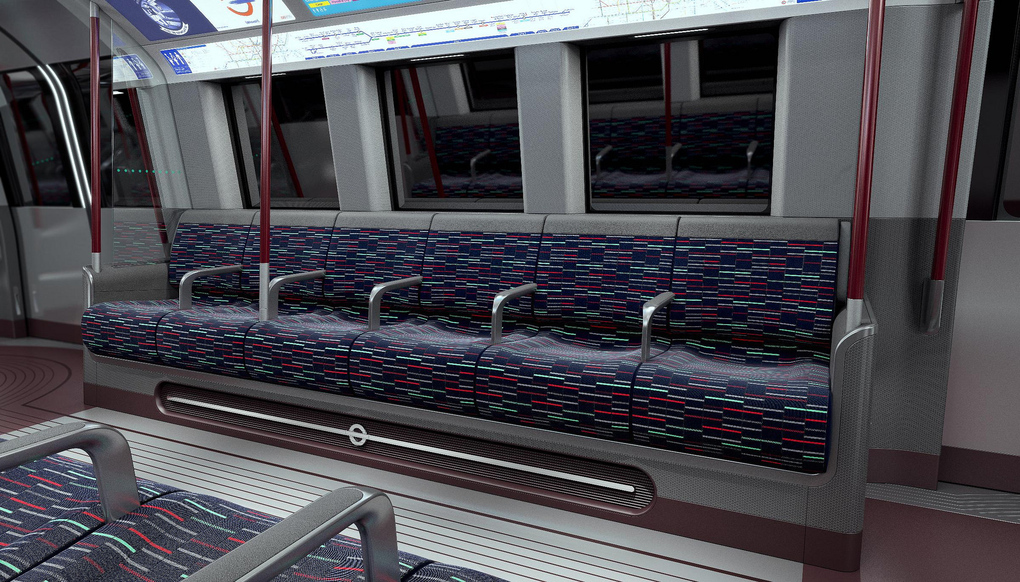
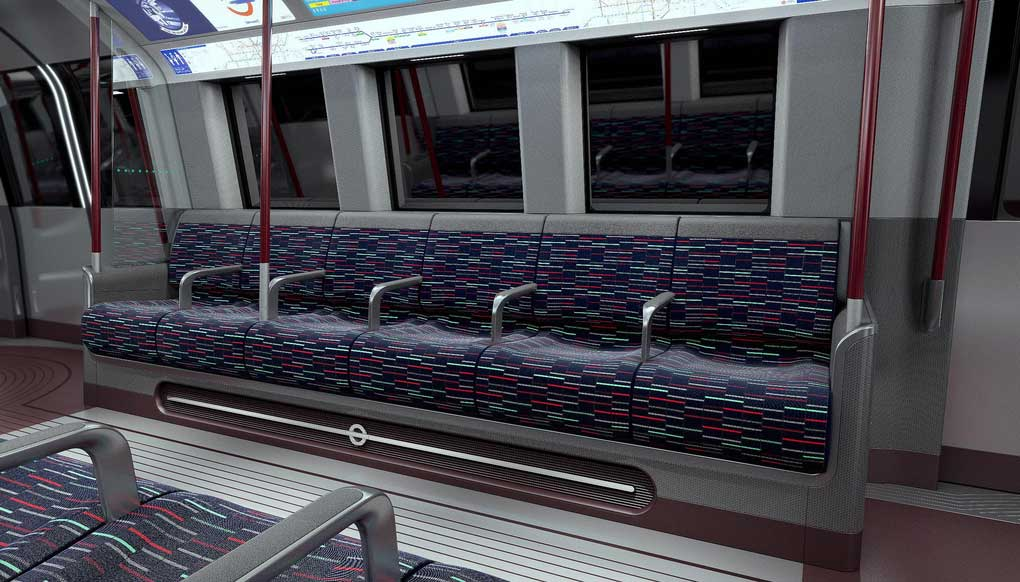
images optimised

diff --git a/_posts/2015-01-02-Cyanogenmod-11-whatsapp-error.md b/_posts/2015-01-02-Cyanogenmod-11-whatsapp-error.md
@@ -1,0 +1,74 @@
+---
+layout: post
+title: Why Cyanogenmod?
+published: true
+---
+![Cyanogenmod-cid](/images/cyanogenmod-cid.jpg)
+		
+
+If you havent tried Cyanogenmod then please do try! There are a lot of cool stuff going on. 
+
+#Why Cyanogenmod?
+
+##1. Completely own your phone!
+
+Smartphone manufacturers and Network Carriers include some crappy apps (bloatwares) inbuilt while delivering it to the market. They eat up a lot of space and run all the time draining your battery. Cyanogenmod gets rid of such unwanted apps.
+
+
+##2. Security
+
+The last time Koushik Dutta (one of the founders of CM) spoke, he mentioned that he may get warnings from NSA. Cyanogenmod completely encrypts your data, only end users can decode the message. This is not appreciated by the government by the way.
+
+There is inbuilt app security as well. You can secure any folder having apps with a pattern. In order to open the apps that are in the folder, you should know the pattern. You cannot access those apps anywhere else in the phone.
+
+![folder-lock](/images/folder-lock1.png)
+The folder on the home-screen has four apps and you can see a lock icon at the bottom right corner of the folder. You can click on it to lock all four apps in the folder.
+
+Once you click on the lock icon, you'll see below screen.
+
+![folder-lock](/images/folder-lock2.png)
+Select a pattern you like and you'll be directed to next screen shown below.
+
+![folder-lock](/images/folder-lock3.png)
+Here if you want to lock the apps you have to click on the lock icon on the top-right corner.
+
+
+##3. Get the latest Android version and frequent updates.
+
+Most carriers take months to update devices on their network to the latest version of Android, if ever. Taking control of your OS allows you to update whenever you feel like. For Moto G users, there is Android Lollipop 5.0 already available by cyanogenmod 12.
+
+This is again not appreciated by Carriers because users don't buy new phones if they get immediate updates to the old phones.
+
+##4. Highly customizable
+
+This feature is what I like the most in Cyanogenmod. You can change almost all the looks and feel in your phone. There are hundreds of themes available in Playstore. Customization level is so high that you can choose icons from one theme, font from another, style from another. There is an option to change the bootanimation as well.
+
+Here are the screenshots where I have used a CM theme from playstore.
+
+![Cyanogenmod theme](/images/settings.jpg)
+
+This is a Material theme with nice Green overlay. Find the theme [here](https://play.google.com/store/apps/details?id=ind.aang.minimal.teal&hl=en)
+
+
+##5. Performance
+This might be the greatest feature of Cyanogenmod. By tweaking the kernel here and there CM team manages to give a pretty good performance far better than stock ROM.
+You can set the frequency yourself (though I don't recommend it) for a better performance. Frequency can be set to lower values to save battery life.
+
+![Cyanogenmod perfoemance tweak](/images/performance.jpg)
+
+
+Now cyanogenmod has more than 8 million users (registered) and hardware partners Oppo, One plus one.
+
+I have been following up with cyanogenmod since its inception. The only thing that bothered CM users was the process of installing CM. It's so hard that some guys don't even dare to attempt. Noticing this problem, CM has come up with [one click installer](http://wiki.cyanogenmod.org/w/CyanogenMod_Installer). Installing CM has never been easier. If your phone supports CM then give it a try. I'm sure you'll like it.
+
+Moto G users can go [here](http://wiki.cyanogenmod.org/w/Falcon_Info) to have a look at the procedure to install Cyanogenmod.
+
+If you are also using Cyanogenmod then leave a comment on your experience of using CM, Why you like/hate it?
+
+Thanks for reading!
+
+
+
+
+-------------------------
+

diff --git a/_posts/2014-10-09-How-to-make-your-Moto-G-fly.md b/_posts/2014-10-09-How-to-make-your-Moto-G-fly.md
@@ -107,7 +107,7 @@ Download and move the [XposedFramework.apk](http://dl.xposed.info/modules/de.rob
 7. Once the flash completes successfully, reboot the device into recovery to verify the installation. Boot to recovery instructions: Hold <b>Volume Down</b> & <b>Power</b> simultaneously. On the next screen use <b>Volume Down</b> to scroll to recovery and then use <b>Volume Up</b> to select.
 
 Recovery mode looks like this. 
-![Moto G recovery mode](https://lh3.googleusercontent.com/-woLIu-D6554/VDU6Fp6IQHI/AAAAAAAAAAk/jvGvMIQN5bY/w620-h323-no/Recovery-Mode.jpg)
+![Moto G recovery mode](/images/recovery.jpg)
 
 Reboot the device. Install [supersu](https://play.google.com/store/apps/details?id=eu.chainfire.supersu&hl=en) and [busybox](https://play.google.com/store/apps/details?id=stericson.busybox&hl=en).
 
@@ -123,7 +123,7 @@ Now it'll ask for a reboot.
 
 
 Xposed Framework will look like the below screenshot.
-![Xposed Framework](https://lh4.googleusercontent.com/N4S2sV8JfrrdKLDgx1fvE-WvAbCMPXWUGR2H5uYnYQ=w928-h550-no)
+![Xposed Framework](/images/xposed.jpg)
 
 
 >You may have to reboot a lot many times than usual, but it's worth it.
@@ -155,18 +155,18 @@ I have installed some modules like
 >Here I have changed my status bar color. Usually the icons will be white, I have changed them to cyan. The tiles on the second screenshot are not available in stock ROM. I have quick toggle tiles that are really awesome. There is a camera tile, on clicking which you can take photos rightaway. No need to open camera app! The navigation bar is already using the <b>Android L</b> navbar. This is cool right?
 
 
-![Status Bar Tweaks](https://lh6.googleusercontent.com/-T_qdwtkbDpY/VDVU52k8DGI/AAAAAAAAACA/YfUujnVbnFk/w670-h593-no/statusbar.jpg)
+![Status Bar Tweaks](/images/statusbar.jpg)
 
 ---------------
 ><b>Xtended NavBar</b> does some cool stuff with your navigation bar. You can now swipe it and control music and other toggles. Not a great deal but once you get used to this then you'll know how hard it is to pull down and click on a quick toggle to turn your Wi-Fi on!
 
 
-![Navigation Bar Tweaks](https://lh6.googleusercontent.com/-QA6_84vYQZY/VDVU6UfMYyI/AAAAAAAAACM/cO2EWwXvMjA/w1004-h593-no/navbar.jpg)
+![Navigation Bar Tweaks](/images/navbar.JPG)
 
 ----------------
 >Finally the <b>GravityBox</b>. This is the module through which you can change almost anything on your phone. All those quick toggles you saw on the first screenshot was because of GravityBox. Customize your phone as you like. There are youtube videos available on how to use GravityBox!
 
-![GravityBox Tweaks](https://lh5.googleusercontent.com/-Oo0q9P-dAr0/VDVU52wlsKI/AAAAAAAAACI/O6OSMAIZwV0/w1008-h593-no/gravitybox.jpg)
+![GravityBox Tweaks](/images/gravitybox.jpg)
 
 
 Thanks!
